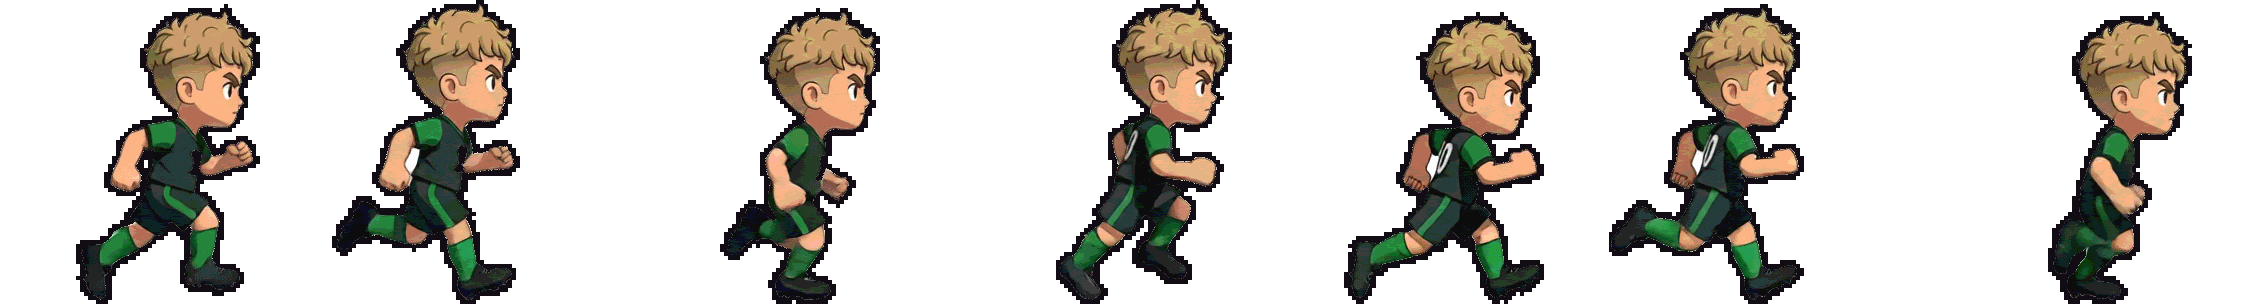
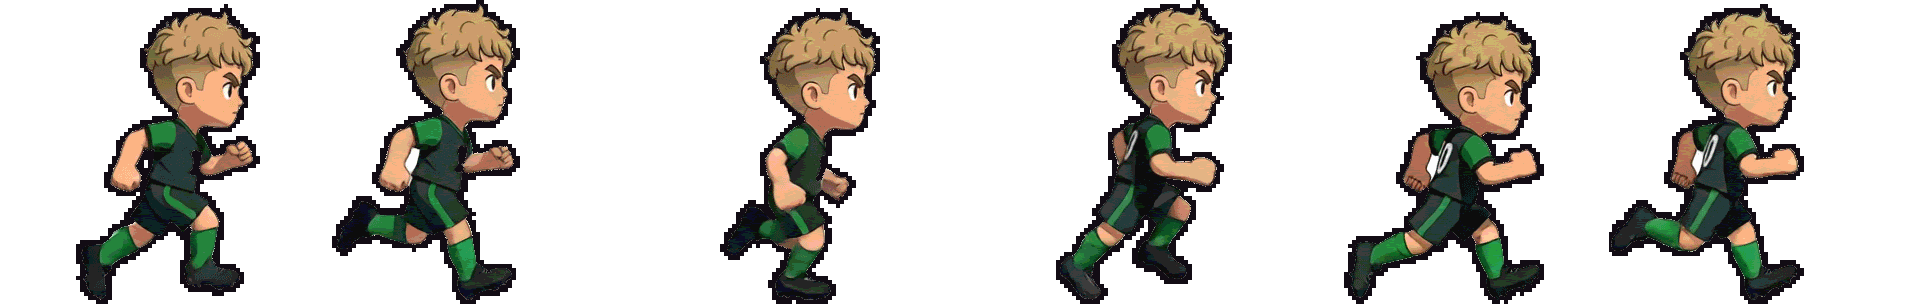
Power test: #10 run loop without the stray turning frame; fresh cache stamp
Claude-Session: https://claude.ai/code/session_01Y9XNosS9qXxorLv9Jh2D4n

diff --git a/proto/moc.html b/proto/moc.html
@@ -37,13 +37,13 @@ const resize = () => { DPR = Math.min(2, devicePixelRatio || 1); W = innerWidth;
 addEventListener('resize', resize); resize();
 const img = (src) => { const i = new Image(); i.src = src; return i; };
 // players: run-sideways and turn-around sheets cut from the GIFs
-const PL = { 7: { run: img('p7_run.png?v=1795710672'), rn: 8, turn: img('p7_turn.png?v=1795710672'), tn: 29 }, 10: { run: img('p10_run.png?v=1795710672'), rn: 7, turn: img('p10_turn.png?v=1795710672'), tn: 29 }, 14: { run: img('p14_run.png?v=1795710672'), rn: 8, turn: img('p14_turn.png?v=1795710672'), tn: 16 } };
+const PL = { 7: { run: img('p7_run.png?v=1795710780'), rn: 8, turn: img('p7_turn.png?v=1795710780'), tn: 29 }, 10: { run: img('p10_run.png?v=1795710780'), rn: 6, turn: img('p10_turn.png?v=1795710780'), tn: 29 }, 14: { run: img('p14_run.png?v=1795710780'), rn: 8, turn: img('p14_turn.png?v=1795710780'), tn: 16 } };
 // the pixel entrance effects: a burst of fire the dragon steps out of, steel plates that burst open for the robot
-const FX = { smok: { sheet: img('fx_ogien.png?v=1795710672'), n: 9, dt: 0.13, appear: 3 }, robot: { sheet: img('fx_plyty.png?v=1795710672'), n: 9, dt: 0.13, appear: 6 } };
+const FX = { smok: { sheet: img('fx_ogien.png?v=1795710780'), n: 9, dt: 0.13, appear: 3 }, robot: { sheet: img('fx_plyty.png?v=1795710780'), n: 9, dt: 0.13, appear: 6 } };
 let fx = null;
 // powers: frames 400x225; where the figure stands (ax, feet at fy); when the beam/fire reaches the right edge and where; which frames loop while firing
-const PW = { robot: { sheet: img('moc_robot_o.png?v=1795710672'), n: 28, ax: 95, fy: 214, hit: 15, ey: 88, loop: [18, 27], col: ['#5af0ff', '#bff8ff', '#2a8aff'], fps: 11 },
-             smok: { sheet: img('moc_smok_o.png?v=1795710672'), n: 15, ax: 190, fy: 212, hit: 9, ey: 104, loop: [10, 14], col: ['#ff8a1a', '#ffe14a', '#ff3a10'], fps: 9 } };
+const PW = { robot: { sheet: img('moc_robot_o.png?v=1795710780'), n: 28, ax: 95, fy: 214, hit: 15, ey: 88, loop: [18, 27], col: ['#5af0ff', '#bff8ff', '#2a8aff'], fps: 11 },
+             smok: { sheet: img('moc_smok_o.png?v=1795710780'), n: 15, ax: 190, fy: 212, hit: 9, ey: 104, loop: [10, 14], col: ['#ff8a1a', '#ffe14a', '#ff3a10'], fps: 9 } };
 let who = 14, power = null, st = 'run', t0 = 0, now = 0, parts = [], shake = 0, flash = 0, ball = null, beam = 0, net = 0, msg = '', msgT = 0;
 const L = () => ({ ground: H * 0.8, px: W * 0.24, goal: W * 0.92, ph: Math.min(H * 0.34, W * 0.2), big: Math.min(H * 0.5, W * 0.36) });
 const setState = (s) => { st = s; t0 = now; document.getElementById('mid').hidden = s !== 'choose'; document.getElementById('again').hidden = s !== 'done'; };
